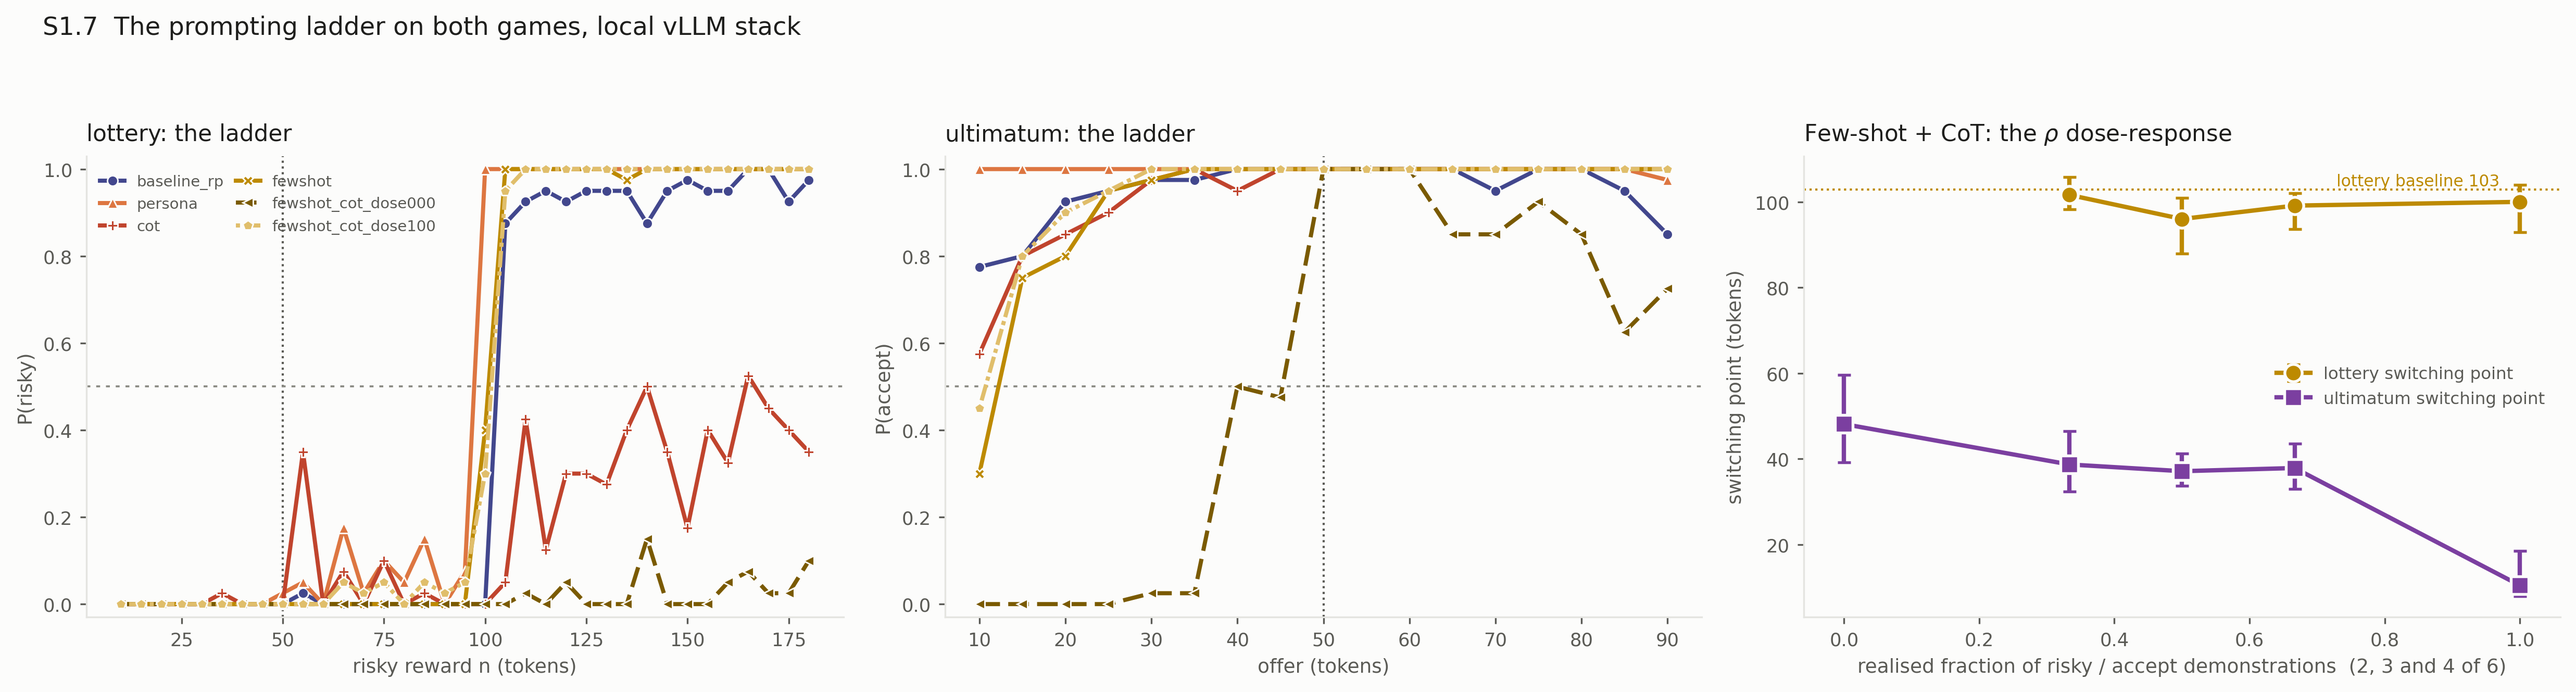
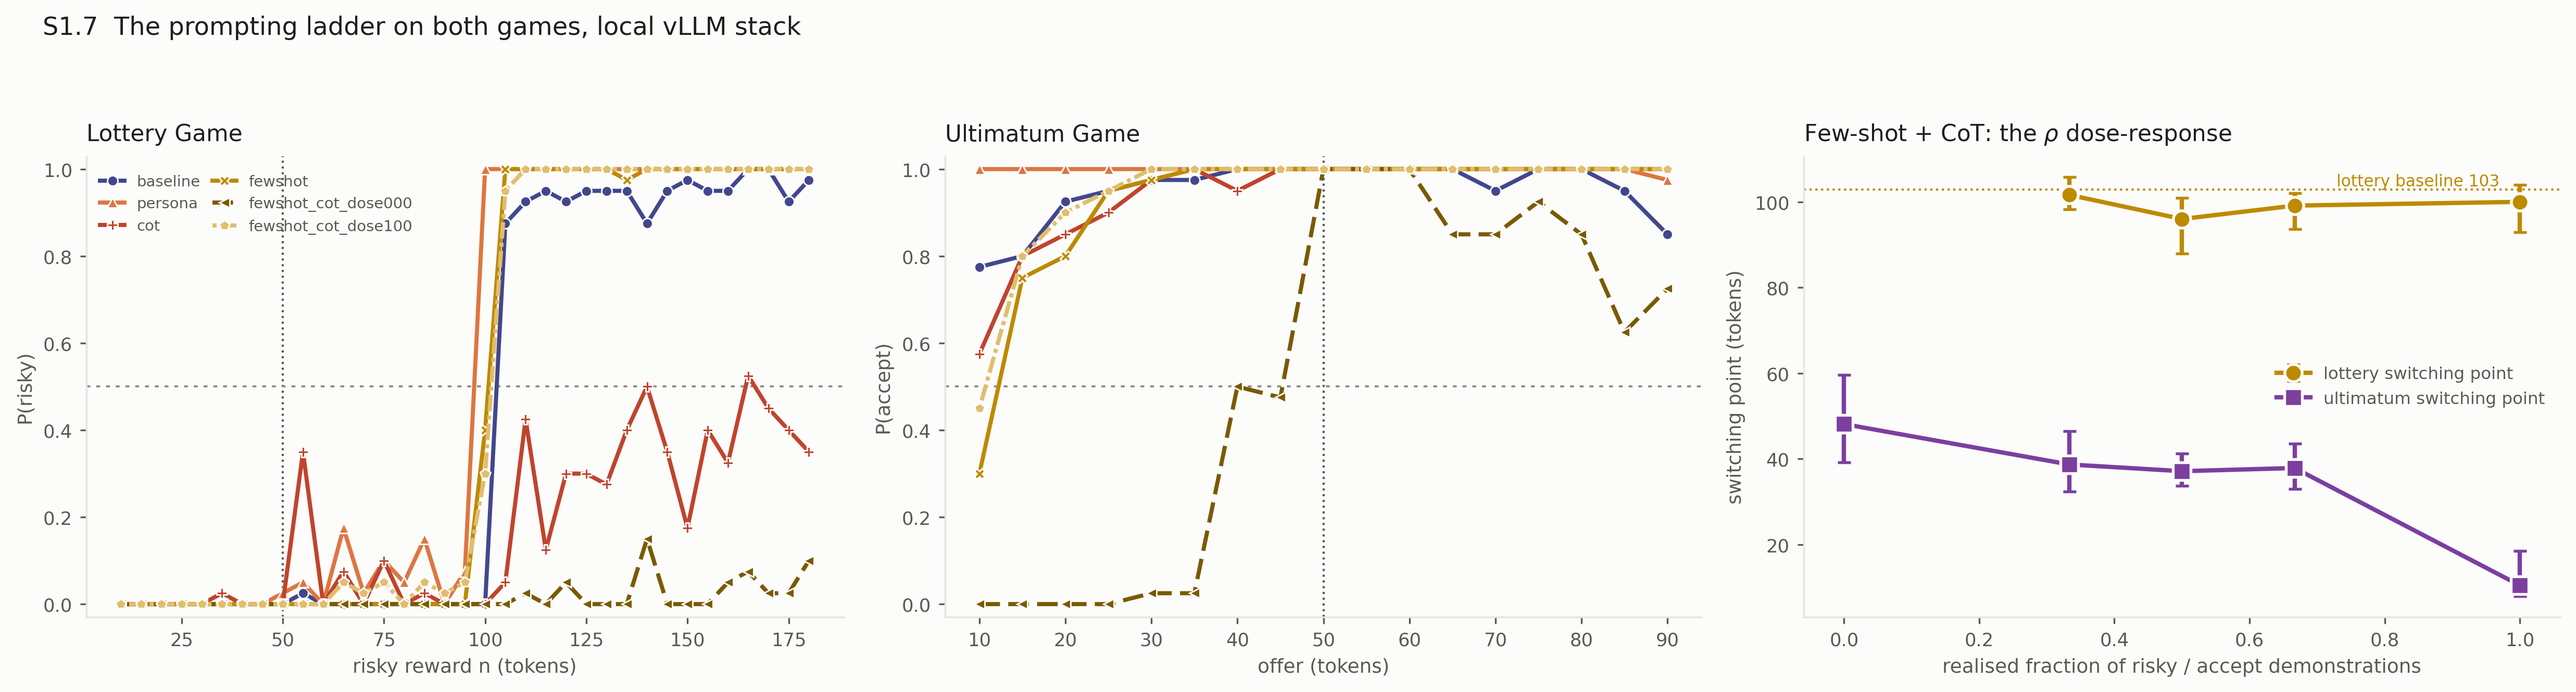
s1_7: baseline label, game titles, drop the realised-fraction parenthetical

diff --git a/cv_bench/s1_figures.py b/cv_bench/s1_figures.py
@@ -533,10 +533,13 @@ def s1_7_ladder():
              "fewshot_cot_dose100"]
     # Both games on their own axes. The dotted rule is 50 in each, but it means
     # different things: the lottery's utility floor, and the even split of the pie.
+    # `baseline_rp` is the condition name in the logs; the legend shows the
+    # plain word, since the suffix means nothing to a reader.
+    SHOWN = {"baseline_rp": "baseline"}
     ladders = (("lottery", "risky reward n (tokens)", "P(risky)",
-                "lottery: the ladder"),
+                "Lottery Game"),
                ("ultimatum", "offer (tokens)", "P(accept)",
-                "ultimatum: the ladder"))
+                "Ultimatum Game"))
     for ax, (game, xlab, ylab, title) in zip(axes[:2], ladders):
         for cond in order:
             c = curves.get(("vllm", game, cond))
@@ -549,7 +552,7 @@ def s1_7_ladder():
             ax.plot(xs, ys, linestyle=dash(cond), color=col, linewidth=1.9,
                     marker=marker(cond), markersize=4.8,
                     markeredgecolor=SURFACE, markeredgewidth=0.7,
-                    label=cond, zorder=3)
+                    label=SHOWN.get(cond, cond), zorder=3)
         ax.axvline(50, color=INK2, linewidth=1.0, linestyle=":", zorder=1)
         ax.axhline(0.5, color=MUTED, linewidth=0.9, linestyle=(0, (2, 3)), zorder=1)
         style(ax, title, xlab, ylab)
@@ -582,7 +585,7 @@ def s1_7_ladder():
             ax.annotate(f"{game} baseline {base:.0f}", (0.97, base), fontsize=7.5,
                         color=col, ha="right", va="bottom")
     style(ax, "Few-shot + CoT: the $\\rho$ dose-response",
-          "realised fraction of risky / accept demonstrations  (2, 3 and 4 of 6)",
+          "realised fraction of risky / accept demonstrations",
           "switching point (tokens)")
     ax.set_xlim(-0.06, 1.06)
     ax.legend(fontsize=7.8, frameon=False, loc="center right", labelcolor=INK2)

diff --git a/logs/DECISIONS.md b/logs/DECISIONS.md
@@ -1763,3 +1763,23 @@ readout" and "free generation" (panel A's legend), "diff-of-means", "first PCA",
 "readout gradient". The three coding names on panel A's x axis, legacy, strict and decision,
 are the one place where a caption is still needed: nothing on the figure says they are three
 rules for reading a choice out of generated text.
+
+## D104 — s1_7 plotting changes from the 23 Sept review (24 Sept)
+
+Three cosmetic changes requested on the ladder figure, all applied and rendered.
+
+  1. The legend shows "baseline" where it showed "baseline_rp". Display only, via a SHOWN map
+     in `s1_7_ladder`. The condition name in `cleaned/behavioral_games_combined.csv`, in
+     `MANIFEST.csv` and in every report is unchanged, so `S1.7.vllm.lottery.baseline_rp.switch`
+     and the rest still resolve.
+  2. Panel titles are "Lottery Game" and "Ultimatum Game". The phrase "the ladder" is gone from
+     both, and with it the stack name that used to sit in the lottery title. The suptitle still
+     carries "local vLLM stack", which is now the only place on the figure that says which
+     stack the curves come from. Worth keeping if the panels are ever cropped apart.
+  3. The parenthetical "(2, 3 and 4 of 6)" is removed from panel 3's x label. That text was the
+     only thing on the figure recording that the realised fractions are sixths rather than the
+     quarters the condition names imply, so the N=6 point now lives only in the caption text of
+     section 7's W9 and in `reports/S1_7.md`. Flagged rather than reinstated, since the authors
+     asked for it to come off.
+
+No data, fit or value changed. Figure regenerated.
